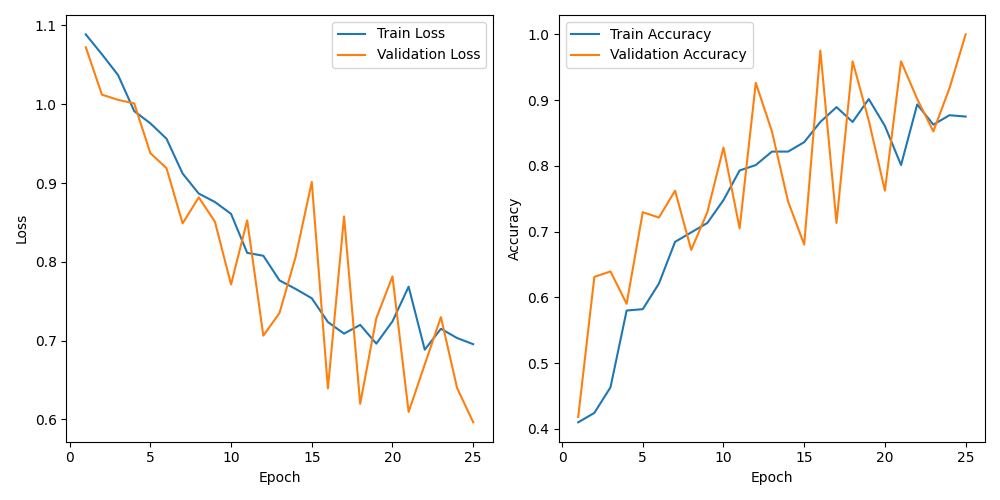
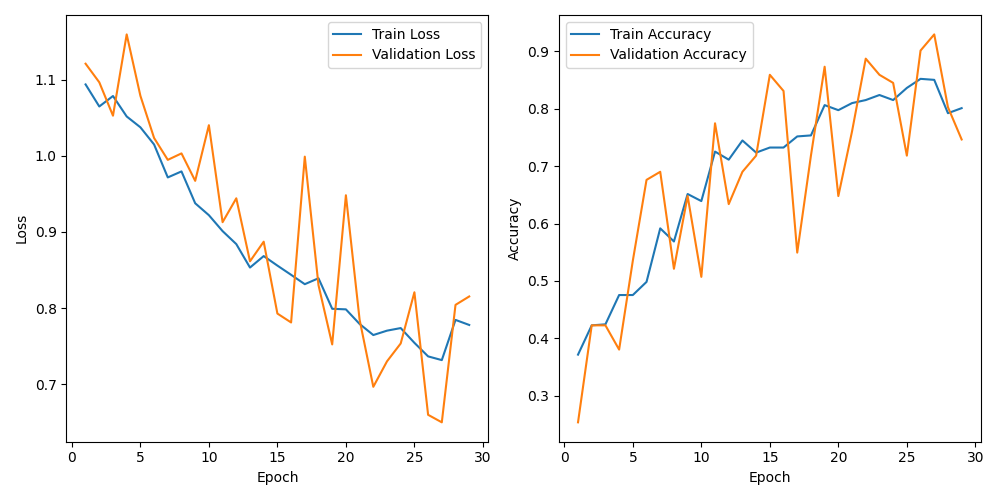
reversed speech model run

diff --git a/utils.py b/utils.py
@@ -92,8 +92,8 @@ def create_data_object(sub_conn_matrix, sub_ROI_ts, label):
 
 def load_subject_data(num_aug):
     all_labels=[]
-    train_fc_matrices=np.load('source_data/fc1/augmented_fc_matrices_10_4_sentences.npy')
-    train_time_series=np.load('source_data/ts1/augmented_time_series_10_4_sentences.npy')
+    train_fc_matrices=np.load('source_data/fc1/augmented_fc_matrices_10_4_reversed.npy')
+    train_time_series=np.load('source_data/ts1/augmented_time_series_10_4_reversed.npy')
     combined_train_data = [(fc_matrix, time_series) for fc_matrix, time_series in zip(train_fc_matrices, train_time_series)]
     print(f"Number of Train Subjects {len(train_fc_matrices)}")
     for i in range(len(train_fc_matrices)):
@@ -160,12 +160,12 @@ def compute_metrics(all_labels, all_preds, save_path='metrics/SageNet/model'):
     print(metrics.classification_report(y_true=all_labels, y_pred=all_preds))
     report = metrics.classification_report(y_true=all_labels, y_pred=all_preds, output_dict=True)
     df_report = pd.DataFrame(report).transpose()
-    df_report.to_excel(f"{save_path}_classif_report_sagenet_sentences.xlsx")
+    df_report.to_excel(f"{save_path}_classif_report_sagenet_reversed.xlsx")
 
     # label_dictionary = classes
     cm = metrics.confusion_matrix(y_true=all_labels, y_pred=all_preds)
     cm_as_df = pd.DataFrame(cm, columns=sorted(set(all_labels)), index=sorted(set(all_labels)))
-    cm_as_df.to_excel(f"{save_path}_confusion_matrix_sagenet_sentences.xlsx")
+    cm_as_df.to_excel(f"{save_path}_confusion_matrix_sagenet_reversed.xlsx")
 
     _metrics = {
         "MCC": mcc,
@@ -179,7 +179,7 @@ def compute_metrics(all_labels, all_preds, save_path='metrics/SageNet/model'):
     }
 
     dfmetrics = pd.DataFrame.from_dict(_metrics, orient='index', columns=['Value'])
-    dfmetrics.to_excel(f"{save_path}_metric_results_sagenet_reverse.xlsx")
+    dfmetrics.to_excel(f"{save_path}_metric_results_sagenet_reversed.xlsx")
     print(dfmetrics)
 
 

diff --git a/run.py b/run.py
@@ -114,7 +114,7 @@ def main():
         subject_val, labels_val, test_size=test_size,shuffle=True, random_state=42)
 
     # model = GAT(hidden_channels=16, number_of_features=feature_dimensions, number_of_classes=num_classes)
-    # model = SAGENET(hidden_channels=14, number_of_features=feature_dimensions, number_of_classes=num_classes) # batch_size = 32,16, epochs = 20
+    model = SAGENET(hidden_channels=14, number_of_features=feature_dimensions, number_of_classes=num_classes) # batch_size = 32,16,8 epochs = 20
     # model = GCN(hidden_channels=20, number_of_features=feature_dimensions, number_of_classes=num_classes) # batch_size = 16, epochs = 29
     model, device, criterion, optimizer, scheduler = prepare_model(model)
     # model, device, criterion, optimizer = prepare_model(model)
